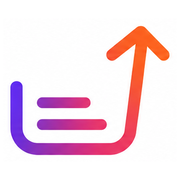
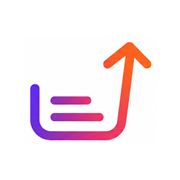
style: 프라이머리 #E8703A 전환 + 그라데이션·아이콘 다듬기
- 프라이머리 컬러 #FB6227 → #E8703A (hover/soft/글로우 동반 조정)
- 브랜드 그라데이션 방향 반전: 오렌지→핑크→보라 (어두운 배경에서 오렌지 선행)
- 밝은 배경용 소프트 텍스트 그라데이션(오렌지→보라) — 포트폴리오 제목 적용
- 홈페이지 카드 이미지 폴백·최하단 CTA 섹션을 블로그 카드와 동일한 파스텔 그라데이션으로
- 파비콘·네비 로고를 푸터와 같은 흰 라운드 배지 스타일로 통일
- 히어로 설명문·FEATURES CTA 문구 줄바꿈 렌더링(whitespace-pre-line)

Changed region(s): [[0.0556, 0.1389, 0.9444, 0.8611]]

diff --git a/src/app/(marketing)/page.tsx b/src/app/(marketing)/page.tsx
@@ -36,7 +36,7 @@ export default async function LandingPage() {
             <span className="brand-gradient-text">{L.title3}</span>
             {L.title4}
           </h1>
-          <p className="mt-7 max-w-md text-[17px] leading-relaxed text-white/70">
+          <p className="mt-7 max-w-md whitespace-pre-line text-[17px] leading-relaxed text-white/70">
             {L.sub}
           </p>
           <div className="mt-9 flex flex-col gap-3 sm:flex-row">
@@ -119,9 +119,9 @@ export default async function LandingPage() {
             ))}
             <Link
               href="/signup"
-              className="brand-gradient-bg group flex flex-col justify-between rounded-2xl p-7 text-white transition hover:-translate-y-1 hover:shadow-lg"
+              className="bg-primary flex flex-col justify-between rounded-2xl p-7 text-white transition hover:-translate-y-1 hover:shadow-lg"
             >
-              <p className="font-[family-name:var(--font-display)] text-2xl font-semibold leading-snug">
+              <p className="whitespace-pre-line font-[family-name:var(--font-display)] text-2xl font-semibold leading-snug">
                 {L.featCtaT}
               </p>
               <p className="mt-6 inline-flex items-center gap-2 text-sm font-bold">
@@ -144,7 +144,7 @@ export default async function LandingPage() {
           <div className="mb-12 text-center">
             <h2 className="font-[family-name:var(--font-display)] text-3xl font-semibold sm:text-4xl">
               {L.showcaseT1}
-              <span className="brand-gradient-text">{L.showcaseT2}</span>
+              <span className="brand-gradient-text-soft">{L.showcaseT2}</span>
             </h2>
             <p className="mt-3 text-muted">{L.showcaseSub}</p>
           </div>
@@ -215,23 +215,23 @@ export default async function LandingPage() {
         </div>
       </section>
 
-      {/* Final CTA — 브랜드 그라데이션 */}
-      <section className="brand-gradient-bg px-6 py-28 text-center text-white sm:px-8">
+      {/* Final CTA — 블로그 카드와 동일한 파스텔 그라데이션 */}
+      <section className="bg-gradient-to-br from-primary/30 via-surface-muted to-accent/20 px-6 py-28 text-center sm:px-8">
         <h2 className="mx-auto max-w-3xl font-[family-name:var(--font-display)] text-4xl font-semibold leading-tight sm:text-5xl">
           {L.ctaTitle1}
           <br />
           {L.ctaTitle2}
         </h2>
-        <p className="mx-auto mt-6 max-w-xl text-[17px] leading-relaxed text-white/85">
+        <p className="mx-auto mt-6 max-w-xl text-[17px] leading-relaxed text-muted">
           {L.ctaSub}
         </p>
         <Link
           href="/signup"
-          className="mt-10 inline-flex rounded-xl bg-white px-8 py-4 text-sm font-bold text-foreground shadow-lg transition hover:-translate-y-0.5"
+          className="neon-glow mt-10 inline-flex rounded-xl bg-primary px-8 py-4 text-sm font-bold text-primary-foreground shadow-lg transition hover:-translate-y-0.5 hover:bg-primary-hover"
         >
           {L.ctaBtn}
         </Link>
-        <p className="mt-6 text-sm text-white/75">{L.ctaNote}</p>
+        {/*<p className="mt-6 text-sm text-muted">{L.ctaNote}</p>*/}
       </section>
 
       <Footer />

diff --git a/src/app/globals.css b/src/app/globals.css
@@ -22,17 +22,18 @@
   --brand-purple: #7b31cf;
   --brand-pink: #e43c73;
   --brand-orange: #fb6227;
+  /* B안: 어두운 배경에서 오렌지가 먼저 오도록 방향 반전 (오렌지→핑크→보라) */
   --brand-gradient: linear-gradient(
     100deg,
-    #7b31cf 0%,
-    #e43c73 52%,
-    #fb6227 100%
+    #fb6227 0%,
+    #e43c73 48%,
+    #7b31cf 100%
   );
 
   /* Accents */
-  --primary: #fb6227;
-  --primary-hover: #e14e15;
-  --primary-soft: #fff0e8;
+  --primary: #e8703a;
+  --primary-hover: #d05a26;
+  --primary-soft: #fdefe7;
   --primary-foreground: #ffffff;
 
   /* Functional */
@@ -167,7 +168,7 @@
   }
 
   ::selection {
-    background: rgba(251, 98, 39, 0.22);
+    background: rgba(232, 112, 58, 0.22);
     color: var(--foreground);
   }
   .theme-editorial-light ::selection {
@@ -207,7 +208,7 @@
      .neon-* 클래스명은 앱 전반에서 쓰이므로 이름은 유지하고
      라이트 테마에 맞는 은은한 표현으로 재정의한다. */
   .neon-glow {
-    box-shadow: 0 8px 22px -8px rgba(251, 98, 39, 0.45);
+    box-shadow: 0 8px 22px -8px rgba(232, 112, 58, 0.45);
   }
   .neon-text {
     text-shadow: none;
@@ -216,8 +217,8 @@
     text-shadow: none;
   }
   .neon-border {
-    border: 1px solid rgba(251, 98, 39, 0.45);
-    box-shadow: 0 4px 14px -6px rgba(251, 98, 39, 0.25);
+    border: 1px solid rgba(232, 112, 58, 0.45);
+    box-shadow: 0 4px 14px -6px rgba(232, 112, 58, 0.25);
   }
   .cyber-grid {
     background: none;
@@ -225,7 +226,7 @@
   .hero-gradient {
     background: radial-gradient(
       circle at center,
-      rgba(251, 98, 39, 0.08) 0%,
+      rgba(232, 112, 58, 0.08) 0%,
       rgba(255, 255, 255, 0) 70%
     );
   }
@@ -239,6 +240,16 @@
   }
   .brand-gradient-bg {
     background: var(--brand-gradient);
+  }
+  .brand-primary-bg {
+    background: var(--primary);
+  }
+  /* 밝은 배경용 부드러운 텍스트 그라데이션 — 블로그 카드 폴백(오렌지→보라)과 같은 색 방향 */
+  .brand-gradient-text-soft {
+    background: linear-gradient(100deg, var(--primary) 0%, var(--accent) 100%);
+    -webkit-background-clip: text;
+    background-clip: text;
+    color: transparent;
   }
   /* 다크(네이비) 섹션 — 랜딩의 교차 밴드용 */
   .band-dark {

diff --git a/src/components/marketing/showcaseData.ts b/src/components/marketing/showcaseData.ts
@@ -1,6 +1,5 @@
 import type { WebsiteRow } from "@/types/database";
 import type { WebsiteContent } from "@/types/domain";
-import { SITE_PALETTES } from "@/components/website/siteStyle";
 import type { ShowcasePost } from "@/lib/queries";
 
 /** 직렬화 가능한 쇼케이스 카드 데이터 (서버에서 만들어 클라이언트 탭으로 전달) */
@@ -9,8 +8,6 @@ export interface ShowcaseSiteItem {
   name: string;
   headline: string;
   image: string | null;
-  /** 사이트가 고른 테마 색 (이미지 없을 때 프리뷰 배경) */
-  color: string;
 }
 
 export interface ShowcasePostItem {
@@ -23,15 +20,11 @@ export interface ShowcasePostItem {
 
 export function toSiteItem(site: WebsiteRow): ShowcaseSiteItem {
   const content = site.content as WebsiteContent;
-  const palette =
-    SITE_PALETTES.find((p) => p.id === content.style?.palette) ??
-    SITE_PALETTES[0];
   return {
     href: `/site/${site.slug}`,
     name: content.hero?.businessName ?? "",
     headline: content.hero?.headline ?? "",
     image: content.hero?.image ?? null,
-    color: palette.primary,
   };
 }
 

diff --git a/src/lib/i18n.ts b/src/lib/i18n.ts
@@ -27,7 +27,7 @@ export const translations = {
       title2: "이야기를",
       title3: "비즈니스",
       title4: "로.",
-      sub: "소상공인·1인 사업자의 진짜 이야기를 AI가 브랜드 스토리, 홈페이지, 블로그, SNS 콘텐츠로 변환합니다.",
+      sub: "소상공인·1인 사업자의 진짜 이야기를 AI가 브랜드 스토리,\n 홈페이지, 블로그, SNS 콘텐츠로 변환합니다.",
       cta: "무료로 시작하기",
       how: "작동 방식 보기",
       stats: [
@@ -113,7 +113,7 @@ export const translations = {
           d: "같은 방향을 향하는 소상공인들과 이야기를 나누고, 서포터즈와 협업하세요.",
         },
       ],
-      featCtaT: "지금 바로 내 이야기를 써보세요.",
+      featCtaT: "지금 바로,\n내 이야기를 써보세요",
       featCtaBtn: "무료로 시작",
       storiesEyebrow: "STORIES",
       storiesT1: "이야기가 만드는",

diff --git a/src/components/ui/Logo.tsx b/src/components/ui/Logo.tsx
@@ -17,12 +17,20 @@ export function Logo({
       href={href}
       className={cn("inline-flex items-center gap-2", className)}
     >
-      {/* eslint-disable-next-line @next/next/no-img-element -- 정적 로고 에셋 */}
-      <img
-        src="/images/logo-icon.png"
-        alt=""
-        className="size-8 object-contain"
-      />
+      {/* 푸터 칩과 동일한 배지 스타일 아이콘 */}
+      <span
+        className={cn(
+          "grid size-8 shrink-0 place-items-center rounded-lg bg-white",
+          !dark && "border border-border shadow-xs",
+        )}
+      >
+        {/* eslint-disable-next-line @next/next/no-img-element -- 정적 로고 에셋 */}
+        <img
+          src="/images/logo-icon.png"
+          alt=""
+          className="size-6 object-contain"
+        />
+      </span>
       <span
         className={cn(
           "text-[19px] font-extrabold tracking-tight",

diff --git a/src/components/marketing/ShowcaseTabs.tsx b/src/components/marketing/ShowcaseTabs.tsx
@@ -30,15 +30,8 @@ export function SiteCard({ item }: { item: ShowcaseSiteItem }) {
           className="aspect-[16/9] w-full object-cover"
         />
       ) : (
-        <div
-          className="flex aspect-[16/9] w-full flex-col justify-center gap-2 px-6"
-          style={{ backgroundColor: item.color }}
-        >
-          <span className="text-xl font-bold text-white">{item.name}</span>
-          <span className="line-clamp-2 text-sm text-white/85">
-            {item.headline}
-          </span>
-        </div>
+        /* 이미지가 없으면 블로그 카드와 동일한 그라데이션 폴백 */
+        <div className="aspect-[16/9] w-full bg-gradient-to-br from-primary/30 via-surface-muted to-accent/20" />
       )}
       <div className="px-5 py-4">
         <p className="truncate font-semibold group-hover:text-primary">
